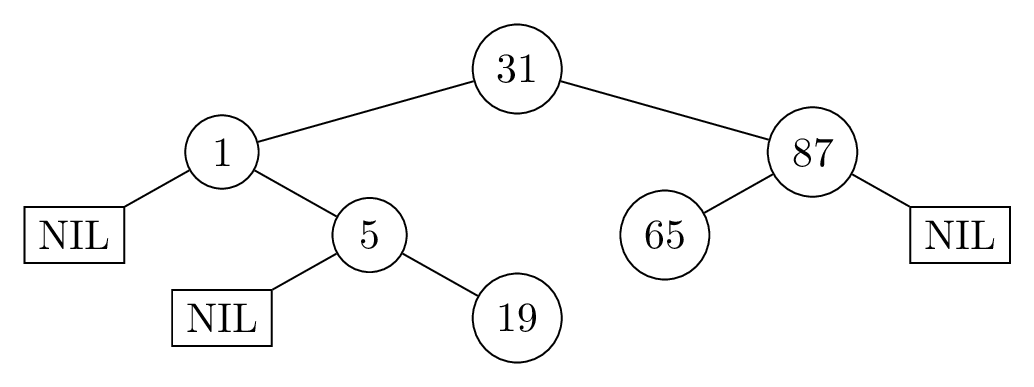
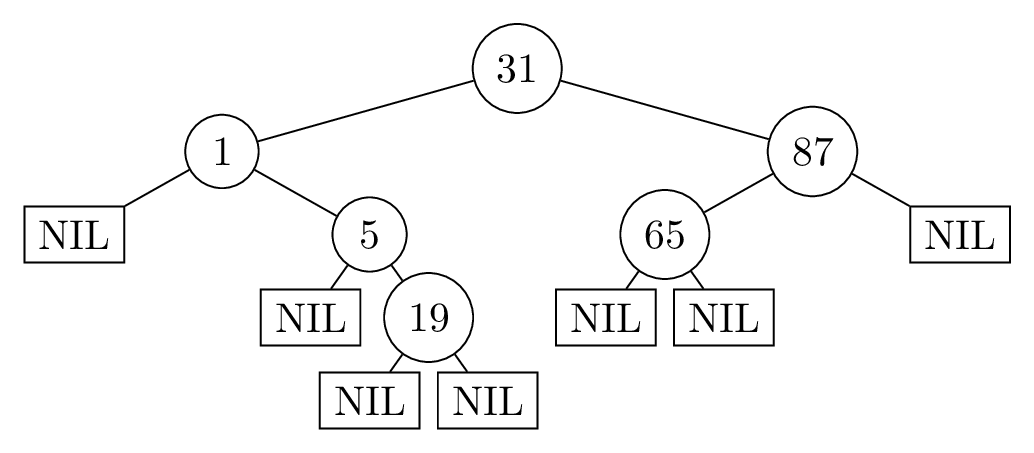
Korrigiere Uebung 9

diff --git a/Loesungen/img/09.1.a.tex b/Loesungen/img/09.1.a.tex
@@ -6,6 +6,7 @@
 \tikzset{level distance=2em}
 \tikzset{level 1/.style = {sibling distance = 5cm}}
 \tikzset{level 2/.style = {sibling distance = 2.5cm}}
+\tikzset{level 3/.style = {sibling distance = 1cm}}
 \tikzset{every node/.style={draw,circle}}
 \tikzset{blank/.style={draw=none}}
 
@@ -18,12 +19,20 @@
         child {
             node {5}
             child {node[style={draw,rectangle}]{NIL}}
-            child {node {19}}
+            child {
+                node {19}
+                child {node[style={draw,rectangle}]{NIL}}
+                child {node[style={draw,rectangle}]{NIL}}
+            }
         }
     }
     child {
         node {87}
-        child {node {65}}
+        child {
+            node {65}
+            child {node[style={draw,rectangle}]{NIL}}
+            child {node[style={draw,rectangle}]{NIL}}
+        }
         child {node[style={draw,rectangle}]{NIL}}
     };
 \end{tikzpicture}

diff --git a/Loesungen/img/09.1.d.tex b/Loesungen/img/09.1.d.tex
@@ -50,12 +50,12 @@ $3.$ $42$ gelöscht & $4.$ $29$ gelöscht \\
         child {node{10}}
         child {node{19}}
     }
-    child {node {42}}
+    child {node {43}}
     ;
 \end{tikzpicture}
 &
 \begin{tikzpicture}
-\node{42}
+\node{43}
     child {
         node {12}
         child {node{10}}

diff --git a/Loesungen/Uebungsblatt_09.md b/Loesungen/Uebungsblatt_09.md
@@ -52,12 +52,11 @@ Verbund Knoten
 >
 > Wenden Sie, auf Ihrem Binärbaum aus Teilaufgabe c), den Algorithmus $\mathrm{Traversierung}$ an, und verwenden Sie den Wurzelknoten Ihres Binärbaums als initialen Eingabeparameter. Geben Sie die Ausgaben und deren Reihenfolge an.
 
-1. $87$
-2. $65$
-3. $19$
-4. $5$
-5. $1$
-6. $31$
+1. $24$
+2. $31$
+3. $17$
+4. $9$
+5. $12$
 
 ## 2. Datenstruktur entwickeln
 > Sei $k \in\mathbb N$ eine Konstante und $U = \{1,\dots, k\}$ ein Universum. Gesucht ist eine Datenstruktur zur Repräsentation von Multimengen aus dem Universum $U$. Eine Multimenge $M$ aus dem Universum $U$ kann jedes Element $x \in U$ gar nicht, einmal oder auch mehrmals enthalten. Die gesuchte Datenstruktur soll folgende Operationen in den jeweils angegebenen Laufzeiten unterstützen.
